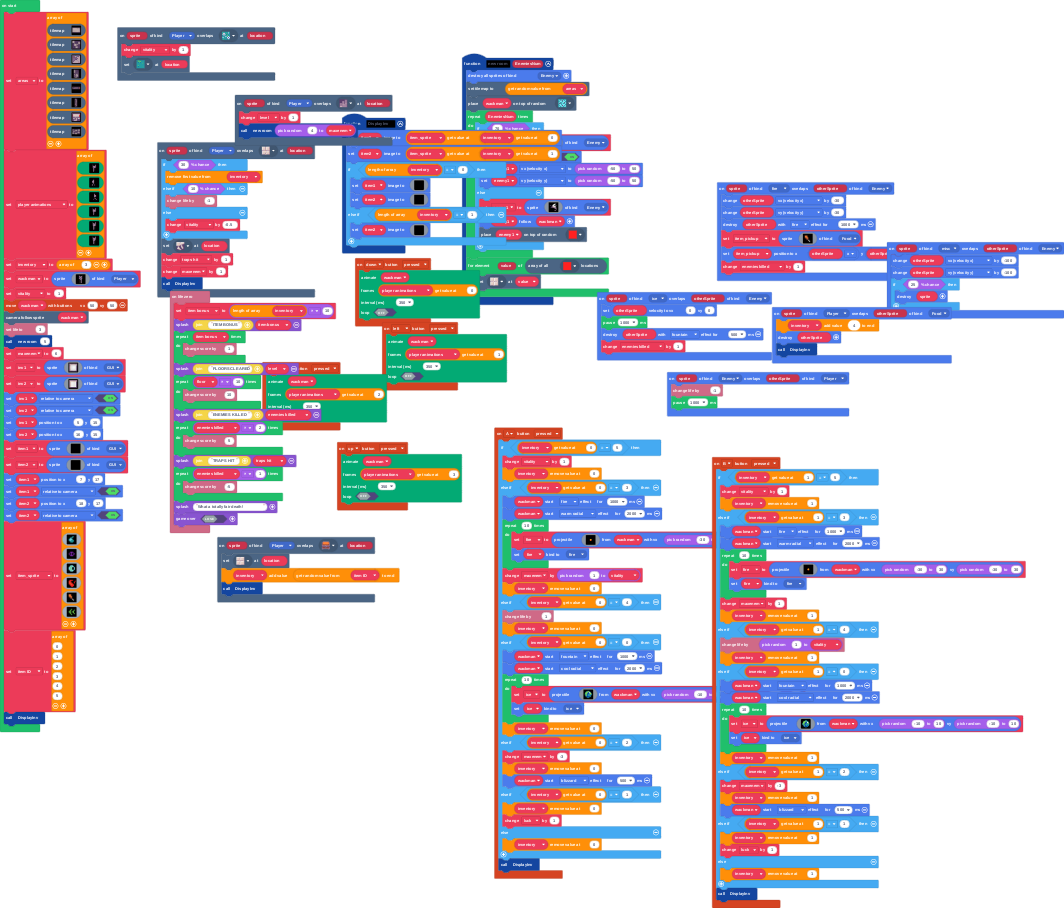
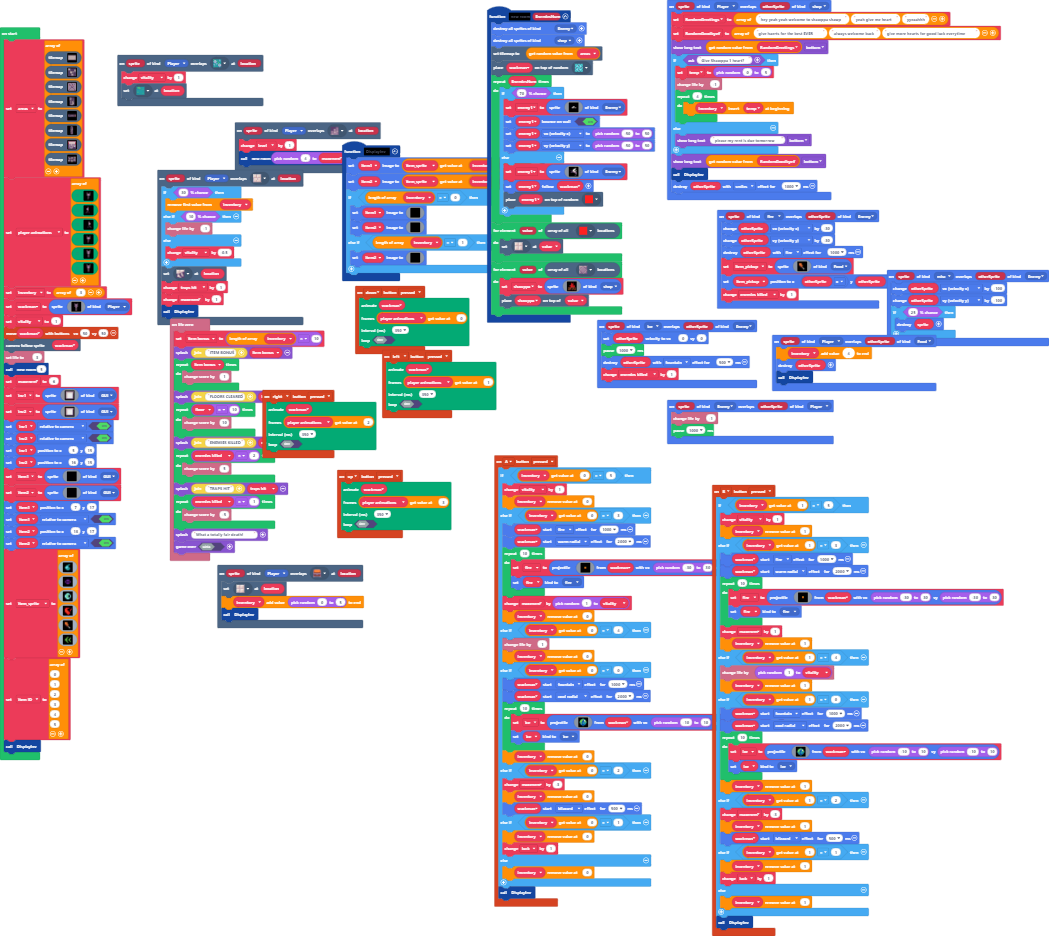
shops work

diff --git a/tilemap.g.ts b/tilemap.g.ts
@@ -30,25 +30,6 @@ namespace myTiles {
 . . . . . . . . . . . . . . . . 
 . . . . . . . . . . . . . . . . 
 `, [myTiles.transparency16], TileScale.Sixteen);
-            case "room1":
-            case "level1":return tiles.createTilemap(hex`1900100002020202020202020202020202020202020202020202020202020101010101010101010101010101010101010101010101020201010501010101010101010101010104010101010106010202010101010101010101010101010101010101010101010102020101010101010101010101010101010101010101010101020201010101010101010101010101050101010101010101010202010101010101010101010101010101010101010101010102020301010101010101010101010101010101010101010101020201010101010101010101010101010101010101010101010202010101010101010101010101010101010101010101010102020101010101010101010101010101010101010101010101020201010101010101010101010101010101010101010101010202010101010101010105010101010101010101010101050102020101010101010101010101010101010101010401010101020201010101010101010101010101010101010101010101010202020202020202020202020202020202020202020202020202`, img`
-2222222222222222222222222
-2.......................2
-2.......................2
-2.......................2
-2.......................2
-2.......................2
-2.......................2
-2.......................2
-2.......................2
-2.......................2
-2.......................2
-2.......................2
-2.......................2
-2.......................2
-2.......................2
-2222222222222222222222222
-`, [myTiles.transparency16,sprites.dungeon.floorLight0,sprites.dungeon.darkGroundNorthWest1,sprites.dungeon.collectibleInsignia,sprites.dungeon.chestClosed,sprites.dungeon.floorLight4,sprites.dungeon.stairLarge], TileScale.Sixteen);
             case "level5":
             case "level5":return tiles.createTilemap(hex`1000100000000000000000000000000000000000000000000000000000000000000000000000000000000000000000000000000000000000000000000000000000000000000000000000000000000000000000000000000000000000000000000000000000000000000000000000000000000000000000000000000000000000000000000000000000000000000000000000000000000000000000000000000000000000000000000000000000000000000000000000000000000000000000000000000000000000000000000000000000000000000000000000000000000000000000000000000000000000000000000000000000000000000000000000000000000000`, img`
 . . . . . . . . . . . . . . . . 
@@ -106,87 +87,6 @@ namespace myTiles {
 . . . . . . . . . . . . . . . . 
 . . . . . . . . . . . . . . . . 
 `, [myTiles.transparency16], TileScale.Sixteen);
-            case "level3":
-            case "level3":return tiles.createTilemap(hex`2300230002020202020202020202020202020202020202020202020202020202020202020202020201010101010101010102020202020202020202020202020202020202020202020202020106010101010101010202020202020202020202020202020202020202020202020202010101010101010401020202020202020202020202020202020202020202020202020201010101010101010102020202020202020202020202020202020202020202020202020101010101010101010202020202020202020202020202020202020202020202020202010101010101010101020202020202020202020202020202020201010101010101020201010301010101010102020202020202020202020202020202020104010101040102020101010101010101010202020202020202020202020202020202010101010101010202020202020202020201020202020202020202020202020202020201010103010101020202020202020202020102020202020202020202020202020202020101010101010102020202020202020202010202020202020202020202020202020202010101010103010202020202020202020201020202020202020202020202020202020201010101010101020202020202020202020102020202020202020202020202020202020101010101010102020202020202020202010101010101010101010101010101010101010101010101010202020202020202020201010101010101010101020202020102020202020202020202020202020202020202020101010101010101010102020101010101020202020202020202020202020202020202010101010101010101010202010104010102020202020202020202020202020202020201010101010103010101020201010101010202020202020202020202020202020202020101010101010101010102020202020202020202020202020202020202020202020202010101010101010101010202020202020202020202020202020202020202020202020201010101010101010101020202020202020202020202020202020202020202020202020202020202020102020202020202020202020202020202020202020202020202020202020202020202010202020202020202020202020202020202020202020202020202020202020202020201020202020202020202020202020202020202020202020202020202020202020202020101010101010101010202020202020202020202020202020202020202020202020202010101010101010101020202020202020202020202020202020202020202020202020201010101010101010102020202020202020202020202020202020202020202020202020101010101010101010202020202020202020202020202020202020202020202020202010103010101010101020202020202020202020202020202020202020202020202020201010101010101010102020202020202020202020202020202020202020202020202020101010105010101010202020202020202020202020202020202020202020202020202020202020202020202020202020202020202020202020202020202020202020202020202020202020202020202020202020202020202020202020202020202020202020202020202020202020202020202020202020202020202`, img`
-22222222222222222222222222222222222
-2.........2222222222222222222222222
-2.........2222222222222222222222222
-2.........2222222222222222222222222
-2.........2222222222222222222222222
-2.........2222222222222222222222222
-2.........22222222222222222.......2
-2.........22222222222222222.......2
-2.........22222222222222222.......2
-222222222.22222222222222222.......2
-222222222.22222222222222222.......2
-222222222.22222222222222222.......2
-222222222.22222222222222222.......2
-222222222.22222222222222222.......2
-222222222.........................2
-222222222..........2222.22222222222
-222222222..........22.....222222222
-222222222..........22.....222222222
-222222222..........22.....222222222
-222222222..........2222222222222222
-222222222..........2222222222222222
-222222222..........2222222222222222
-222222222222222.2222222222222222222
-222222222222222.2222222222222222222
-222222222222222.2222222222222222222
-222222222222222.........22222222222
-222222222222222.........22222222222
-222222222222222.........22222222222
-222222222222222.........22222222222
-222222222222222.........22222222222
-222222222222222.........22222222222
-222222222222222.........22222222222
-22222222222222222222222222222222222
-22222222222222222222222222222222222
-22222222222222222222222222222222222
-`, [myTiles.transparency16,sprites.dungeon.floorLight0,sprites.dungeon.darkGroundSouthEast1,sprites.dungeon.floorLight4,sprites.dungeon.chestClosed,sprites.dungeon.collectibleInsignia,sprites.dungeon.stairLarge], TileScale.Sixteen);
-            case "level4":
-            case "level4":return tiles.createTilemap(hex`1900280001010101010101010101010101010101010101010101010101010202020202010101010101010101010101010101010101010102020602020101010101010101010101010101010101010101020202020201010101020502010101010101010101010101010203020202010101010203020101010101010101010101010102020202020101010102020201010101010101010101010101020202020201010101020202010101010101010101010101010202020202010101010202020101010101010101010501010102020202020101010102010101010101010101010102010101020202020201010101020101010101010101010101020101010202020202010101010201010101010101010101010201010102020202020101010102010101010101010101010103010101020202020301010101020101010101010101010101020101010202020302010101010201010101010101010101010201010102020202020101010102010101010101010101010102010101020202020202020202020202020202020202020202020101010101010101010101010101010101010101010101010201010101010101010101010101010101010101010101010102010101010101010101010101010101010101010101010101020101010101010101010101010101010101010101010101010201010101010202020101010101010101010101010101010102010101010102020201010101010202020202020202010101020101010101020302010101010102050202020202020101010201010101010202020101010101020202020203020201010103010101010102020201010101010202020202020202010101020101010101020101010101010101010101010202020101010201010101010201010101010101010101010101020101010102010101010102010101010101010101020202020202020202020101010101020202020202020202020202020202020203020201010101010101010101010101010102020202020202020202010101010101010101010101010101020202020203020202020101010101010101020202020202010202020202020202020201010101010102020201010101020202020202020202020202010101010101020101010101010101020202020202020202020101010101010201010101010101010101010101010101010101010101010102010101010101010101010101010101010101010101010101020202020203020202020202020101010101010101010101010102020203030202020202020202010101010101010101010101010202020302020202040202020101010101010101010101010101010101020202020202010101010101010101`, img`
-2222222222222222222222222
-2.....2222222222222222222
-2.....2222222222222222222
-2.....2222...222222222222
-2.....2222...222222222222
-2.....2222...222222222222
-2.....2222...222222222222
-2.....2222...222222222.22
-2.....2222.22222222222.22
-2.....2222.22222222222.22
-2.....2222.22222222222.22
-2.....2222.22222222222.22
-2.....2222.22222222222.22
-2.....2222.22222222222.22
-2.....2222.22222222222.22
-2......................22
-2222222222222222222222.22
-2222222222222222222222.22
-2222222222222222222222.22
-2222222222222222222222.22
-222...2222222222222222.22
-222...22222........222.22
-222...22222........222.22
-222...22222........222.22
-222...22222........222.22
-222.222222222222...222.22
-222.2222222222222.2222.22
-222.222222222..........22
-222....................22
-2222222222222..........22
-2222222222222..........22
-222222......2..........22
-2222...2222............22
-2222.22222222..........22
-2222.22222222222222222222
-2222.22222222222222222222
-2222.............22222222
-22222.............2222222
-222222............2222222
-2222222222......222222222
-`, [myTiles.transparency16,sprites.dungeon.darkGroundSouthEast1,sprites.dungeon.floorLight0,sprites.dungeon.floorLight4,sprites.dungeon.stairLarge,sprites.dungeon.chestClosed,sprites.dungeon.collectibleInsignia], TileScale.Sixteen);
             case "level9":
             case "level9":return tiles.createTilemap(hex`1000100000000000000000000000000000000000000000000000000000000000000000000000000000000000000000000000000000000000000000000000000000000000000000000000000000000000000000000000000000000000000000000000000000000000000000000000000000000000000000000000000000000000000000000000000000000000000000000000000000000000000000000000000000000000000000000000000000000000000000000000000000000000000000000000000000000000000000000000000000000000000000000000000000000000000000000000000000000000000000000000000000000000000000000000000000000000`, img`
 . . . . . . . . . . . . . . . . 
@@ -401,6 +301,106 @@ namespace myTiles {
 222222222222222.........2222222222222222
 222222222222222.........2222222222222222
 `, [myTiles.transparency16,myTiles.tile1,sprites.dungeon.darkGroundNorthWest1,sprites.dungeon.floorLight0,sprites.dungeon.floorLight4,sprites.dungeon.stairLarge,sprites.dungeon.collectibleInsignia,sprites.dungeon.chestClosed,sprites.dungeon.floorLightMoss,sprites.castle.tileDarkGrass2,sprites.castle.tileDarkGrass3,sprites.castle.tileDarkGrass1], TileScale.Sixteen);
+            case "room1":
+            case "level1":return tiles.createTilemap(hex`1900100002020202020202020202020202020202020202020202020202020101010101010101010101010101010101010101010101020201010501010101010101010101010104010101010106010202010101010101010101010101010101010101010101010102020101010101010101010101010101010101010101010101020201010101010101010101010101050101010101010101010202010101010101010101010101010101010101010101010102020301010101010101010101010101010101010101010101020201010101010101010101010701010101010101010101010202010101010101010101010101010101010101010101010102020101010101010101010101010101010101010101010101020201010101010101010101010101010101010101010101010202010101010101010105010101010101010101010101050102020101010101010101010101010101010101010401010101020201010101010101010101010101010101010101010101010202020202020202020202020202020202020202020202020202`, img`
+2222222222222222222222222
+2.......................2
+2.......................2
+2.......................2
+2.......................2
+2.......................2
+2.......................2
+2.......................2
+2.......................2
+2.......................2
+2.......................2
+2.......................2
+2.......................2
+2.......................2
+2.......................2
+2222222222222222222222222
+`, [myTiles.transparency16,sprites.dungeon.floorLight0,sprites.dungeon.darkGroundNorthWest1,sprites.dungeon.collectibleInsignia,sprites.dungeon.chestClosed,sprites.dungeon.floorLight4,sprites.dungeon.stairLarge,sprites.dungeon.floorDarkDiamond], TileScale.Sixteen);
+            case "level3":
+            case "level3":return tiles.createTilemap(hex`2300230002020202020202020202020202020202020202020202020202020202020202020202020201010101010101010102020202020202020202020202020202020202020202020202020106010101010101010202020202020202020202020202020202020202020202020202010101010101010401020202020202020202020202020202020202020202020202020201010101010101010102020202020202020202020202020202020202020202020202020101010101010101010202020202020202020202020202020202020202020202020202010101010101010101020202020202020202020202020202020201010101010101020201010301010101010102020202020202020202020202020202020104010701040102020101010101010101010202020202020202020202020202020202010101010101010202020202020202020201020202020202020202020202020202020201010103010101020202020202020202020102020202020202020202020202020202020101010101010102020202020202020202010202020202020202020202020202020202010101010103010202020202020202020201020202020202020202020202020202020201010101010101020202020202020202020102020202020202020202020202020202020101010101010102020202020202020202010101010101010101010101010101010101010101010101010202020202020202020201010101010101010101020202020102020202020202020202020202020202020202020101010101010101010102020101010101020202020202020202020202020202020202010101010101010101010202010104010102020202020202020202020202020202020201010101010103010101020201010101010202020202020202020202020202020202020101010101010101010102020202020202020202020202020202020202020202020202010101010101010101010202020202020202020202020202020202020202020202020201010101010101010101020202020202020202020202020202020202020202020202020202020202020102020202020202020202020202020202020202020202020202020202020202020202010202020202020202020202020202020202020202020202020202020202020202020201020202020202020202020202020202020202020202020202020202020202020202020101010101010101010202020202020202020202020202020202020202020202020202010101010101010101020202020202020202020202020202020202020202020202020201010101010101010102020202020202020202020202020202020202020202020202020101010101010101010202020202020202020202020202020202020202020202020202010103010101010101020202020202020202020202020202020202020202020202020201010101010101010102020202020202020202020202020202020202020202020202020101010105010101010202020202020202020202020202020202020202020202020202020202020202020202020202020202020202020202020202020202020202020202020202020202020202020202020202020202020202020202020202020202020202020202020202020202020202020202020202020202020202`, img`
+22222222222222222222222222222222222
+2.........2222222222222222222222222
+2.........2222222222222222222222222
+2.........2222222222222222222222222
+2.........2222222222222222222222222
+2.........2222222222222222222222222
+2.........22222222222222222.......2
+2.........22222222222222222.......2
+2.........22222222222222222.......2
+222222222.22222222222222222.......2
+222222222.22222222222222222.......2
+222222222.22222222222222222.......2
+222222222.22222222222222222.......2
+222222222.22222222222222222.......2
+222222222.........................2
+222222222..........2222.22222222222
+222222222..........22.....222222222
+222222222..........22.....222222222
+222222222..........22.....222222222
+222222222..........2222222222222222
+222222222..........2222222222222222
+222222222..........2222222222222222
+222222222222222.2222222222222222222
+222222222222222.2222222222222222222
+222222222222222.2222222222222222222
+222222222222222.........22222222222
+222222222222222.........22222222222
+222222222222222.........22222222222
+222222222222222.........22222222222
+222222222222222.........22222222222
+222222222222222.........22222222222
+222222222222222.........22222222222
+22222222222222222222222222222222222
+22222222222222222222222222222222222
+22222222222222222222222222222222222
+`, [myTiles.transparency16,sprites.dungeon.floorLight0,sprites.dungeon.darkGroundSouthEast1,sprites.dungeon.floorLight4,sprites.dungeon.chestClosed,sprites.dungeon.collectibleInsignia,sprites.dungeon.stairLarge,sprites.dungeon.floorDarkDiamond], TileScale.Sixteen);
+            case "level4":
+            case "level4":return tiles.createTilemap(hex`1900280001010101010101010101010101010101010101010101010101010202020202010101010101010101010101010101010101010102020602020101010101010101010101010101010101010101020202020201010101020502010101010101010101010101010203020202010101010203020101010101010101010101010102020202020101010102020201010101010101010101010101020202020201010101020202010101010101010101010101010202020202010101010202020101010101010101010501010102020202020101010102010101010101010101010102010101020202020201010101020101010101010101010101020101010202020202010101010201010101010101010101010201010102020202020101010102010101010101010101010103010101020202020301010101020101010101010101010101020101010202020302010101010201010101010101010101010201010102020202020101010102010101010101010101010102010101020202020202020202020202020202020202020202020101010101010101010101010101010101010101010101010201010101010101010101010101010101010101010101010102010101010101010101010101010101010101010101010101020101010101010101010101010101010101010101010101010201010101010202020101010101010101010101010101010102010101010102070201010101010202020202020202010101020101010101020302010101010102050202020202020101010201010101010202020101010101020202020203020201010103010101010102020201010101010202020202020202010101020101010101020101010101010101010101010202020101010201010101010201010101010101010101010101020101010102010101010102010101010101010101020202020202020202020101010101020202020202020202020202020202020203020201010101010101010101010101010102020202020202020202010101010101010101010101010101020202020203020202020101010101010101020202020202010202020202020202020201010101010102020201010101020202020202020202020202010101010101020101010101010101020202020202020202020101010101010201010101010101010101010101010101010101010101010102010101010101010101010101010101010101010101010101020202020203020202020202020101010101010101010101010102020203030202020202020202010101010101010101010101010202020302020202040202020101010101010101010101010101010101020202020202010101010101010101`, img`
+2222222222222222222222222
+2.....2222222222222222222
+2.....2222222222222222222
+2.....2222...222222222222
+2.....2222...222222222222
+2.....2222...222222222222
+2.....2222...222222222222
+2.....2222...222222222.22
+2.....2222.22222222222.22
+2.....2222.22222222222.22
+2.....2222.22222222222.22
+2.....2222.22222222222.22
+2.....2222.22222222222.22
+2.....2222.22222222222.22
+2.....2222.22222222222.22
+2......................22
+2222222222222222222222.22
+2222222222222222222222.22
+2222222222222222222222.22
+2222222222222222222222.22
+222...2222222222222222.22
+222...22222........222.22
+222...22222........222.22
+222...22222........222.22
+222...22222........222.22
+222.222222222222...222.22
+222.2222222222222.2222.22
+222.222222222..........22
+222....................22
+2222222222222..........22
+2222222222222..........22
+222222......2..........22
+2222...2222............22
+2222.22222222..........22
+2222.22222222222222222222
+2222.22222222222222222222
+2222.............22222222
+22222.............2222222
+222222............2222222
+2222222222......222222222
+`, [myTiles.transparency16,sprites.dungeon.darkGroundSouthEast1,sprites.dungeon.floorLight0,sprites.dungeon.floorLight4,sprites.dungeon.stairLarge,sprites.dungeon.chestClosed,sprites.dungeon.collectibleInsignia,sprites.dungeon.floorDarkDiamond], TileScale.Sixteen);
         }
         return null;
     })

diff --git a/main.ts b/main.ts
@@ -3,6 +3,7 @@ namespace SpriteKind {
     export const fire = SpriteKind.create()
     export const ice = SpriteKind.create()
     export const misc = SpriteKind.create()
+    export const shop = SpriteKind.create()
 }
 controller.up.onEvent(ControllerButtonEvent.Pressed, function () {
     animation.runImageAnimation(
@@ -11,6 +12,23 @@ controller.up.onEvent(ControllerButtonEvent.Pressed, function () {
     350,
     false
     )
+})
+sprites.onOverlap(SpriteKind.Player, SpriteKind.shop, function (sprite, otherSprite) {
+    RandomGreetings = ["hey yeah yeah welcome to shawppa shawp", "yeah give me heart", "yyeaahhh"]
+    RandomGoodbyes = ["give haerts for the best EVER", "always welcome back", "give more hearts for good luck everytime"]
+    game.showLongText(RandomGreetings._pickRandom(), DialogLayout.Bottom)
+    if (game.ask("Give Shawppa 1 heart?")) {
+        temp = randint(0, 5)
+        info.changeLifeBy(-1)
+        for (let index = 0; index < 4; index++) {
+            inventory.unshift(temp)
+        }
+    } else {
+        game.showLongText("please my rent is due tomorrow", DialogLayout.Bottom)
+    }
+    game.showLongText(RandomGoodbyes._pickRandom(), DialogLayout.Bottom)
+    DisplayInv()
+    otherSprite.destroy(effects.smiles, 1000)
 })
 controller.B.onEvent(ControllerButtonEvent.Pressed, function () {
     if (inventory[1] == 5) {
@@ -231,7 +249,7 @@ function DisplayInv () {
 }
 scene.onOverlapTile(SpriteKind.Player, sprites.dungeon.chestClosed, function (sprite, location) {
     tiles.setTileAt(location, sprites.dungeon.floorLight0)
-    inventory.push(item_ID._pickRandom())
+    inventory.push(randint(0, 5))
     DisplayInv()
 })
 controller.right.onEvent(ControllerButtonEvent.Pressed, function () {
@@ -293,6 +311,7 @@ sprites.onOverlap(SpriteKind.Player, SpriteKind.Food, function (sprite, otherSpr
 })
 function new_room (EnemiesNum: number) {
     sprites.destroyAllSpritesOfKind(SpriteKind.Enemy)
+    sprites.destroyAllSpritesOfKind(SpriteKind.shop)
     tiles.setCurrentTilemap(areas._pickRandom())
     tiles.placeOnRandomTile(wackman, sprites.dungeon.collectibleInsignia)
     for (let index = 0; index < EnemiesNum; index++) {
@@ -309,6 +328,10 @@ function new_room (EnemiesNum: number) {
     }
     for (let value of tiles.getTilesByType(assets.tile`enemy`)) {
         tiles.setTileAt(value, sprites.dungeon.floorLight0)
+    }
+    for (let value of tiles.getTilesByType(sprites.dungeon.floorDarkDiamond)) {
+        shawppa = sprites.create(assets.image`shopkeep_man`, SpriteKind.shop)
+        tiles.placeOnTile(shawppa, value)
     }
 }
 sprites.onOverlap(SpriteKind.misc, SpriteKind.Enemy, function (sprite, otherSprite) {
@@ -335,6 +358,7 @@ scene.onOverlapTile(SpriteKind.Player, sprites.dungeon.floorLight4, function (sp
     maxenem += 1
     DisplayInv()
 })
+let shawppa: Sprite = null
 let enemy1: Sprite = null
 let traps_hit = 0
 let level = 0
@@ -344,7 +368,9 @@ let item_pickup: Sprite = null
 let luck = 0
 let ice: Sprite = null
 let fire: Sprite = null
-let item_ID: number[] = []
+let temp = 0
+let RandomGoodbyes: string[] = []
+let RandomGreetings: string[] = []
 let item_sprite: Image[] = []
 let item2: Sprite = null
 let item1: Sprite = null
@@ -434,7 +460,7 @@ assets.image`myImage0`,
 assets.image`myImage4`,
 assets.image`myImage1`
 ]
-item_ID = [
+let item_ID = [
 0,
 1,
 2,

diff --git a/images.g.ts b/images.g.ts
@@ -169,29 +169,6 @@ c c c c c c c c c
 . . . . . . . . . . . . . . . . 
 . . . . . . . . . . . . . . . . 
 `;
-            case "image13":
-            case "shopkeep_man":return img`
-.....................
-........2....2.......
-........2....2.......
-........22..22.......
-........222222.......
-........222222.......
-........222222.......
-.......2f22222.2.....
-.....2222222f2.22....
-...ee222222222.222...
-........222222.222...
-........2222222222...
-......222222222222...
-eeeeee22eeeeeeeeeeeee
-fff4f4224feef4fefeffe
-f44efffef4f4fef4f4f4f
-fff4f4f4fffefef4f4fff
-44f4f4f4fefef4f4fef44
-fffefef4f4f4f4fef4f44
-44444efefef44fef44fe4
-`;
             case "image14":
             case "shopkeep_man_death":return img`
 ...........4.........
@@ -205,6 +182,29 @@ fffefef4f4f4f4fef4f44
 ....222f2f22f2.22....
 .......2222f2f.222...
 ......22222222.222...
+........2222222222...
+......222222222222...
+eeeeee22eeeeeeeeeeeee
+fff4f4224feef4fefeffe
+f44efffef4f4fef4f4f4f
+fff4f4f4fffefef4f4fff
+44f4f4f4fefef4f4fef44
+fffefef4f4f4f4fef4f44
+44444efefef44fef44fe4
+`;
+            case "image13":
+            case "shopkeep_man":return img`
+.....................
+........2....2.......
+........2....2.......
+........22..22.......
+........222222.......
+........222222.......
+........222222.......
+.......2f22222.2.....
+.....2222222f2.22....
+...ee222222222.222...
+........222222.222...
 ........2222222222...
 ......222222222222...
 eeeeee22eeeeeeeeeeeee
